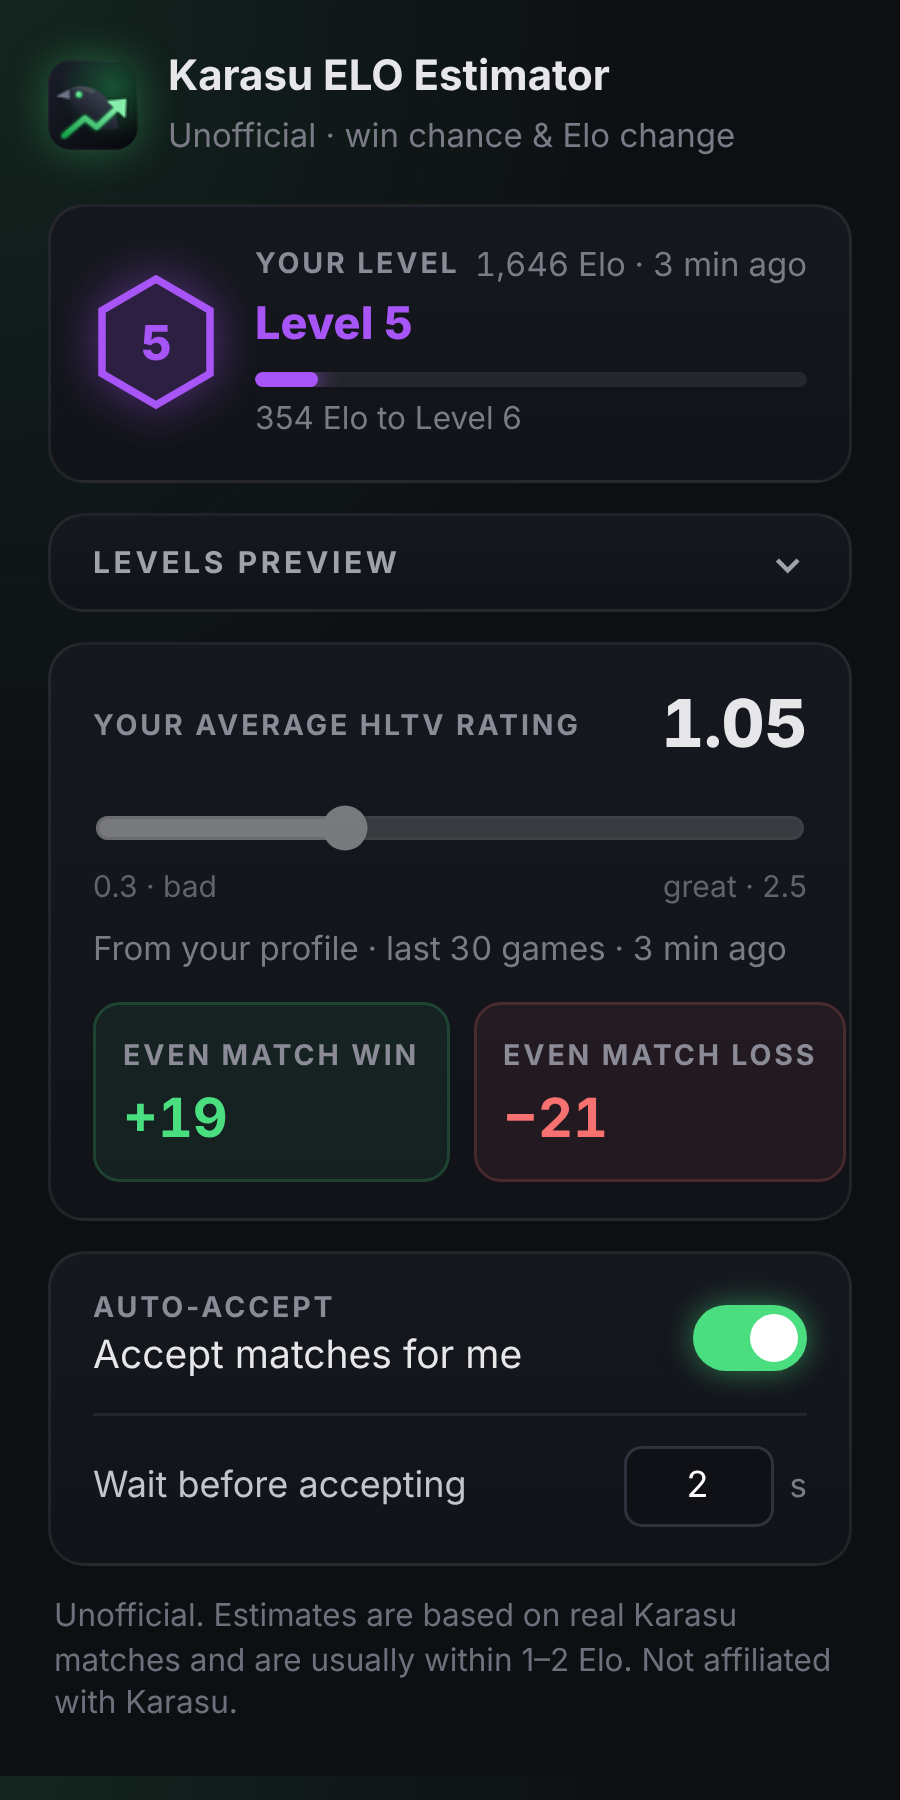
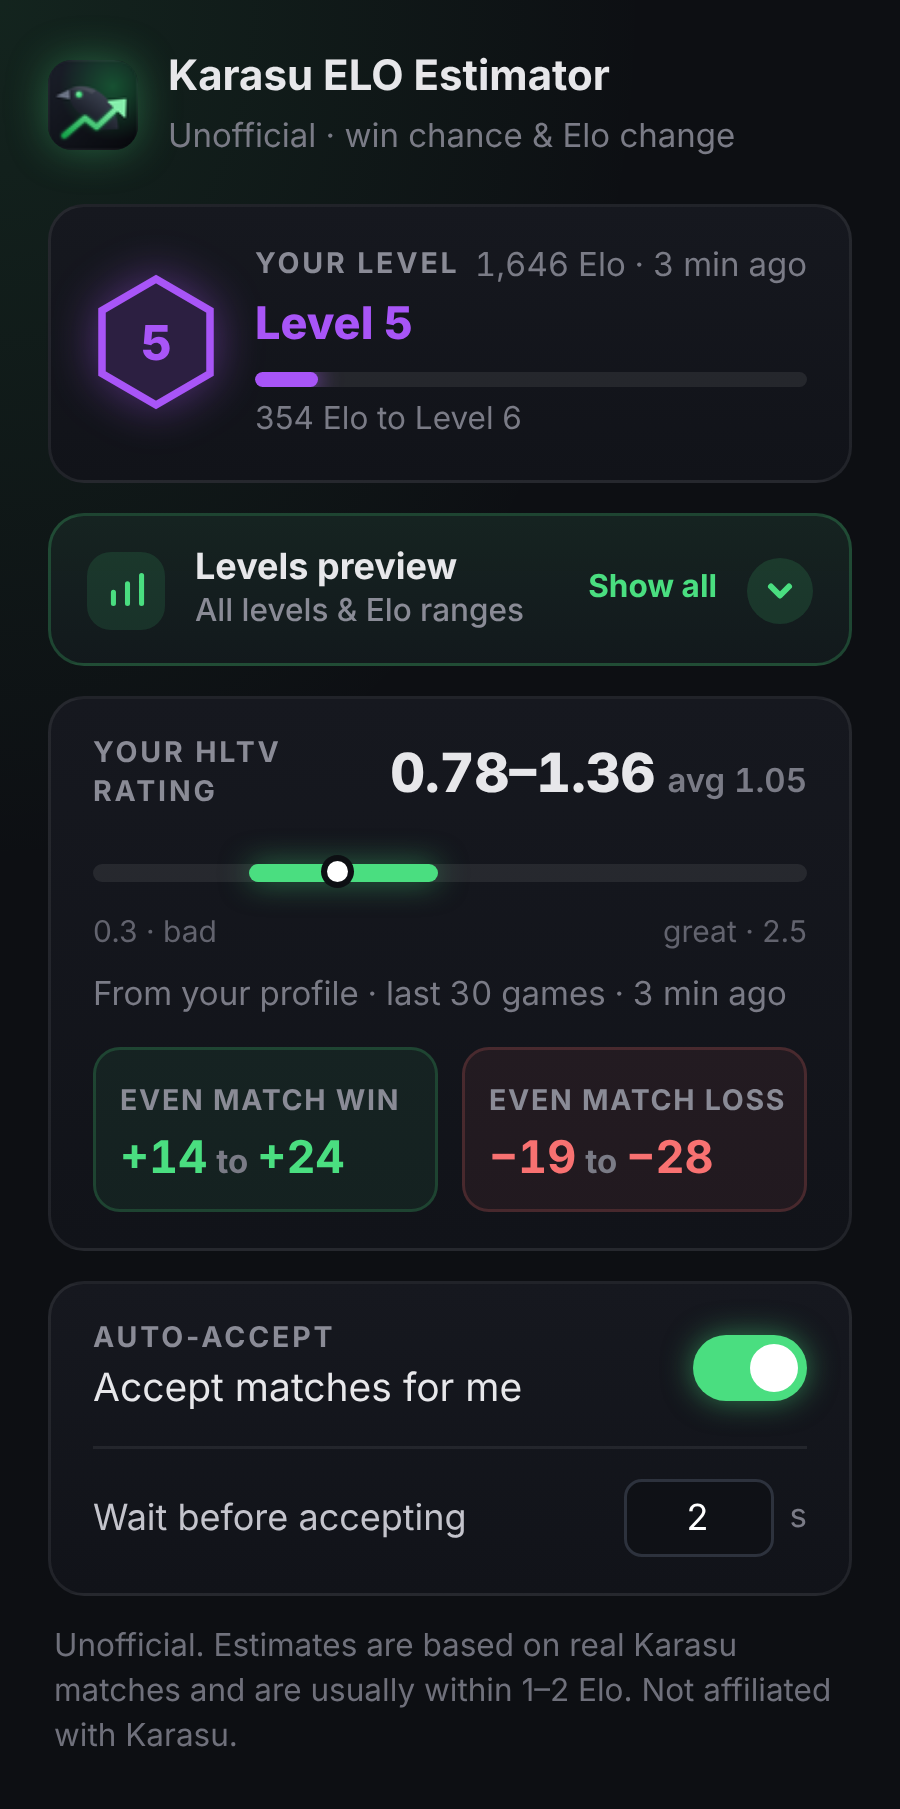
Show your usual HLTV range in the popup too (v1.6.5) (#17)
* Show your usual HLTV range on match cards, dot at your average (v1.6.3)

Claude-Session: https://claude.ai/code/session_01CYZSFdDRW3WgFHPS6CJLv3

* Stop old content scripts quietly after an extension reload (v1.6.4)

Claude-Session: https://claude.ai/code/session_01CYZSFdDRW3WgFHPS6CJLv3

* Show your usual HLTV range in the popup too (v1.6.5)

Claude-Session: https://claude.ai/code/session_01CYZSFdDRW3WgFHPS6CJLv3

---------

diff --git a/popup.js b/popup.js
@@ -1,16 +1,47 @@
 const M = globalThis.KarasuEloModel;
+const $ = (id) => document.getElementById(id);
 const rating = document.getElementById("rating");
 const val = document.getElementById("val");
 const clean = (v) => Math.round(Math.min(2.5, Math.max(0.3, Number(v) || 1)) * 100) / 100;
 
-function show(r) {
-  val.textContent = r.toFixed(2);
-  const e = M.estimate(1000, 1000, r); // an even match
-  document.getElementById("exw").textContent = `+${e.win}`;
-  document.getElementById("exl").textContent = `−${e.loss}`;
+// "+15" or "+15 to +22" (lo/hi in either order).
+function amount(el, sign, a, b) {
+  const [x, y] = [a, b].sort((p, q) => p - q);
+  if (b === undefined || x === y) { el.textContent = `${sign}${a}`; return; }
+  const to = document.createElement("span");
+  to.className = "to";
+  to.textContent = "to";
+  el.replaceChildren(`${sign}${x}`, to, `${sign}${y}`);
 }
 
-const $ = (id) => document.getElementById(id);
+// range = [low, high] of your usual HLTV rating (10th–90th percentile of your last 30 games),
+// or null when it isn't known (then one number and the slider, as before).
+const MIN_R = 0.3, MAX_R = 2.5;
+const at = (x) => `${((x - MIN_R) / (MAX_R - MIN_R)) * 100}%`;
+function show(r, range) {
+  const e = M.estimate(1000, 1000, r); // an even match
+  rating.hidden = !!range;
+  $("hbar").hidden = !range;
+  $("ratingLbl").textContent = range ? "Your HLTV rating" : "Your average HLTV rating";
+  rating.closest(".card").classList.toggle("rng", !!range);
+  if (!range) {
+    val.textContent = r.toFixed(2);
+    amount($("exw"), "+", e.win);
+    amount($("exl"), "−", e.loss);
+    return;
+  }
+  const avg = document.createElement("small");
+  avg.textContent = `avg ${r.toFixed(2)}`;
+  val.replaceChildren(`${range[0].toFixed(2)}–${range[1].toFixed(2)}`, avg);
+  $("hband").style.left = at(range[0]);
+  $("hband").style.width = `calc(${at(range[1])} - ${at(range[0])})`;
+  $("hdot").style.left = at(r);
+  $("hdot").title = `Your average: ${r.toFixed(2)}`;
+  const lo = M.estimate(1000, 1000, range[0]), hi = M.estimate(1000, 1000, range[1]);
+  amount($("exw"), "+", lo.win, hi.win);
+  amount($("exl"), "−", lo.loss, hi.loss);
+}
+
 const ACC = { autoAccept: false, acceptDelay: 2 };
 const num = (v, lo, hi, d) => Math.min(hi, Math.max(lo, Number(v) === 0 ? 0 : Number(v) || d));
 
@@ -112,17 +143,19 @@ chrome.storage.onChanged.addListener((c) => { if (c.myElo || c.myEloSeen) loadRa
 // The rating comes from your profile ("Last 30 games" average) once you've opened it;
 // until then you can set it yourself.
 function loadRating() {
-  chrome.storage.sync.get({ rating: 1.0, ratingAuto: false }, (v) => chrome.storage.local.get({ ratingSeen: 0 }, (l) => {
+  chrome.storage.sync.get({ rating: 1.0, ratingAuto: false, ratingLow: null, ratingHigh: null }, (v) => chrome.storage.local.get({ ratingSeen: 0 }, (l) => {
     rating.value = v.rating;
     rating.disabled = v.ratingAuto;
-    show(clean(v.rating));
+    const r = clean(v.rating), lo = Number(v.ratingLow), hi = Number(v.ratingHigh);
+    // Same rule as the match cards: only with an auto rating, and the average kept inside the band.
+    show(r, v.ratingAuto && lo > 0 && hi >= lo ? [Math.min(clean(lo), r), Math.max(clean(hi), r)] : null);
     $("ratingSrc").textContent = v.ratingAuto
       ? `From your profile · last 30 games${l.ratingSeen ? " · " + ago(l.ratingSeen) : ""}`
       : "Open My Stats on karasu.live to fill this in";
   }));
 }
 loadRating();
-chrome.storage.onChanged.addListener((c) => { if (c.rating || c.ratingAuto || c.ratingSeen) loadRating(); });
+chrome.storage.onChanged.addListener((c) => { if (c.rating || c.ratingAuto || c.ratingSeen || c.ratingLow || c.ratingHigh) loadRating(); });
 
 chrome.storage.sync.get({ ...ACC }, (v) => {
   $("autoAccept").checked = v.autoAccept;
@@ -136,5 +169,5 @@ $("acceptDelay").addEventListener("change", (e) => {
   e.target.value = Math.round(num(e.target.value, 0, 10, 2) * 2) / 2;
   chrome.storage.sync.set({ acceptDelay: Number(e.target.value) });
 });
-rating.addEventListener("input", () => show(clean(rating.value)));
+rating.addEventListener("input", () => show(clean(rating.value), null));
 rating.addEventListener("change", () => chrome.storage.sync.set({ rating: clean(rating.value) }));

diff --git a/popup.html b/popup.html
@@ -55,6 +55,21 @@
   .rnext { font-size: 10.5px; color: #7a7b86; }
   #ratingSrc { margin-top: 6px; }
   input[type=range]:disabled { opacity: .55; }
+  /* usual HLTV range: band from your 10th to 90th percentile game, small dot at your average */
+  .hbar { position: relative; height: 6px; margin: 16px 0 10px; border-radius: 4px; background: rgba(255,255,255,.08); }
+  .hbar i { position: absolute; top: 0; bottom: 0; border-radius: 4px; background: var(--g);
+    box-shadow: 0 0 10px rgba(74,222,128,.5); }
+  .hbar b { position: absolute; top: 50%; width: 7px; height: 7px; margin: -3.5px 0 0 -3.5px; border-radius: 50%;
+    background: #fff; box-shadow: 0 0 0 2px #0d0f13; }
+  .val { white-space: nowrap; }
+  .val small { font-size: 11px; font-weight: 600; color: #7a7b86; margin-left: 4px; }
+  .rng .val { font-size: 18px; }
+  .rng .ex div { padding: 7px 8px; }
+  .rng .ex b { font-size: 15px; }
+  .ex { grid-template-columns: minmax(0, 1fr) minmax(0, 1fr); }
+  .ex .lbl { letter-spacing: .06em; }
+  .ex b .to { display: inline; font-size: 11px; font-weight: 700; color: #7a7b86; margin: 0 3px; }
+  [hidden] { display: none !important; }
   .auto { font-size: 11px; color: #7a7b86; font-variant-numeric: tabular-nums; }
   /* Ultimate: electric shimmer, lightning flashes, sparks */
   .rname { position: relative; display: inline-block; }
@@ -202,8 +217,9 @@
 
 
   <div class="card">
-    <div class="row"><div class="lbl">Your average HLTV rating</div><div class="val" id="val">1.00</div></div>
+    <div class="row"><div class="lbl" id="ratingLbl">Your average HLTV rating</div><div class="val" id="val">1.00</div></div>
     <input type="range" id="rating" min="0.3" max="2.5" step="0.05">
+    <div class="hbar" id="hbar" hidden><i id="hband"></i><b id="hdot"></b></div>
     <div class="ticks"><span>0.3 · bad</span><span>great · 2.5</span></div>
     <div class="auto" id="ratingSrc">Open My Stats on karasu.live to fill this in</div>
     <div class="ex">

diff --git a/store/render-popup.js b/store/render-popup.js
@@ -3,8 +3,8 @@
 const { chromium } = require("playwright");
 const path = require("path");
 const shots = [
-  { name: "popup-closed", sync: { myElo: 1646, rating: 1.05, ratingAuto: true, autoAccept: true, acceptDelay: 2 }, open: false },
-  { name: "popup-levels", sync: { myElo: 2530, rating: 1.2, ratingAuto: true, autoAccept: false, acceptDelay: 2 }, open: true },
+  { name: "popup-closed", sync: { myElo: 1646, rating: 1.05, ratingAuto: true, ratingLow: 0.78, ratingHigh: 1.36, autoAccept: true, acceptDelay: 2 }, open: false },
+  { name: "popup-levels", sync: { myElo: 2530, rating: 1.2, ratingAuto: true, ratingLow: 0.91, ratingHigh: 1.52, autoAccept: false, acceptDelay: 2 }, open: true },
 ];
 (async () => {
   const browser = await chromium.launch();
